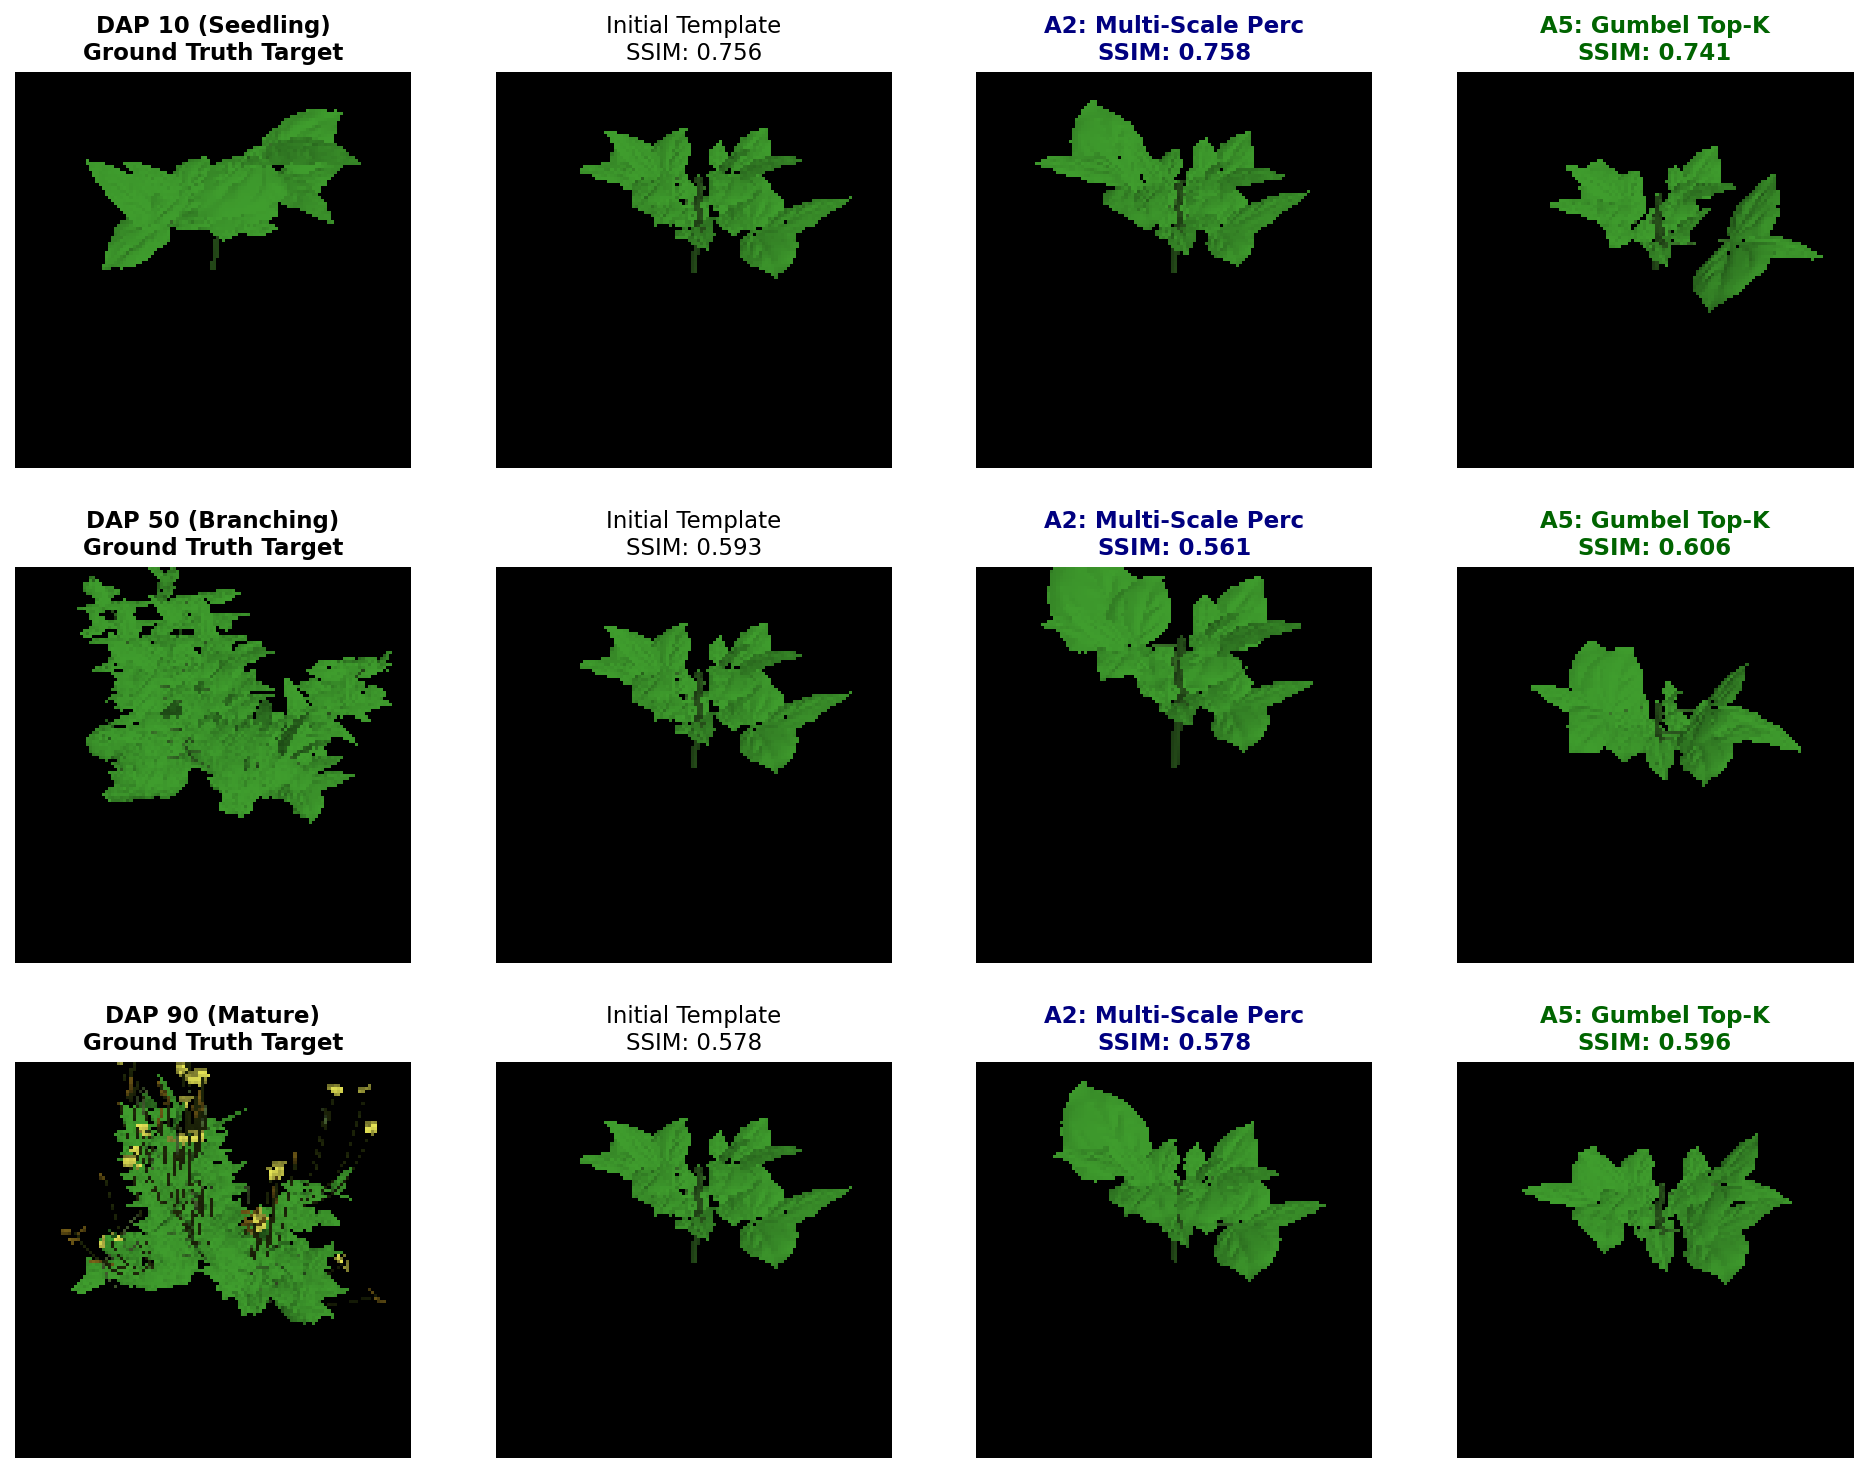
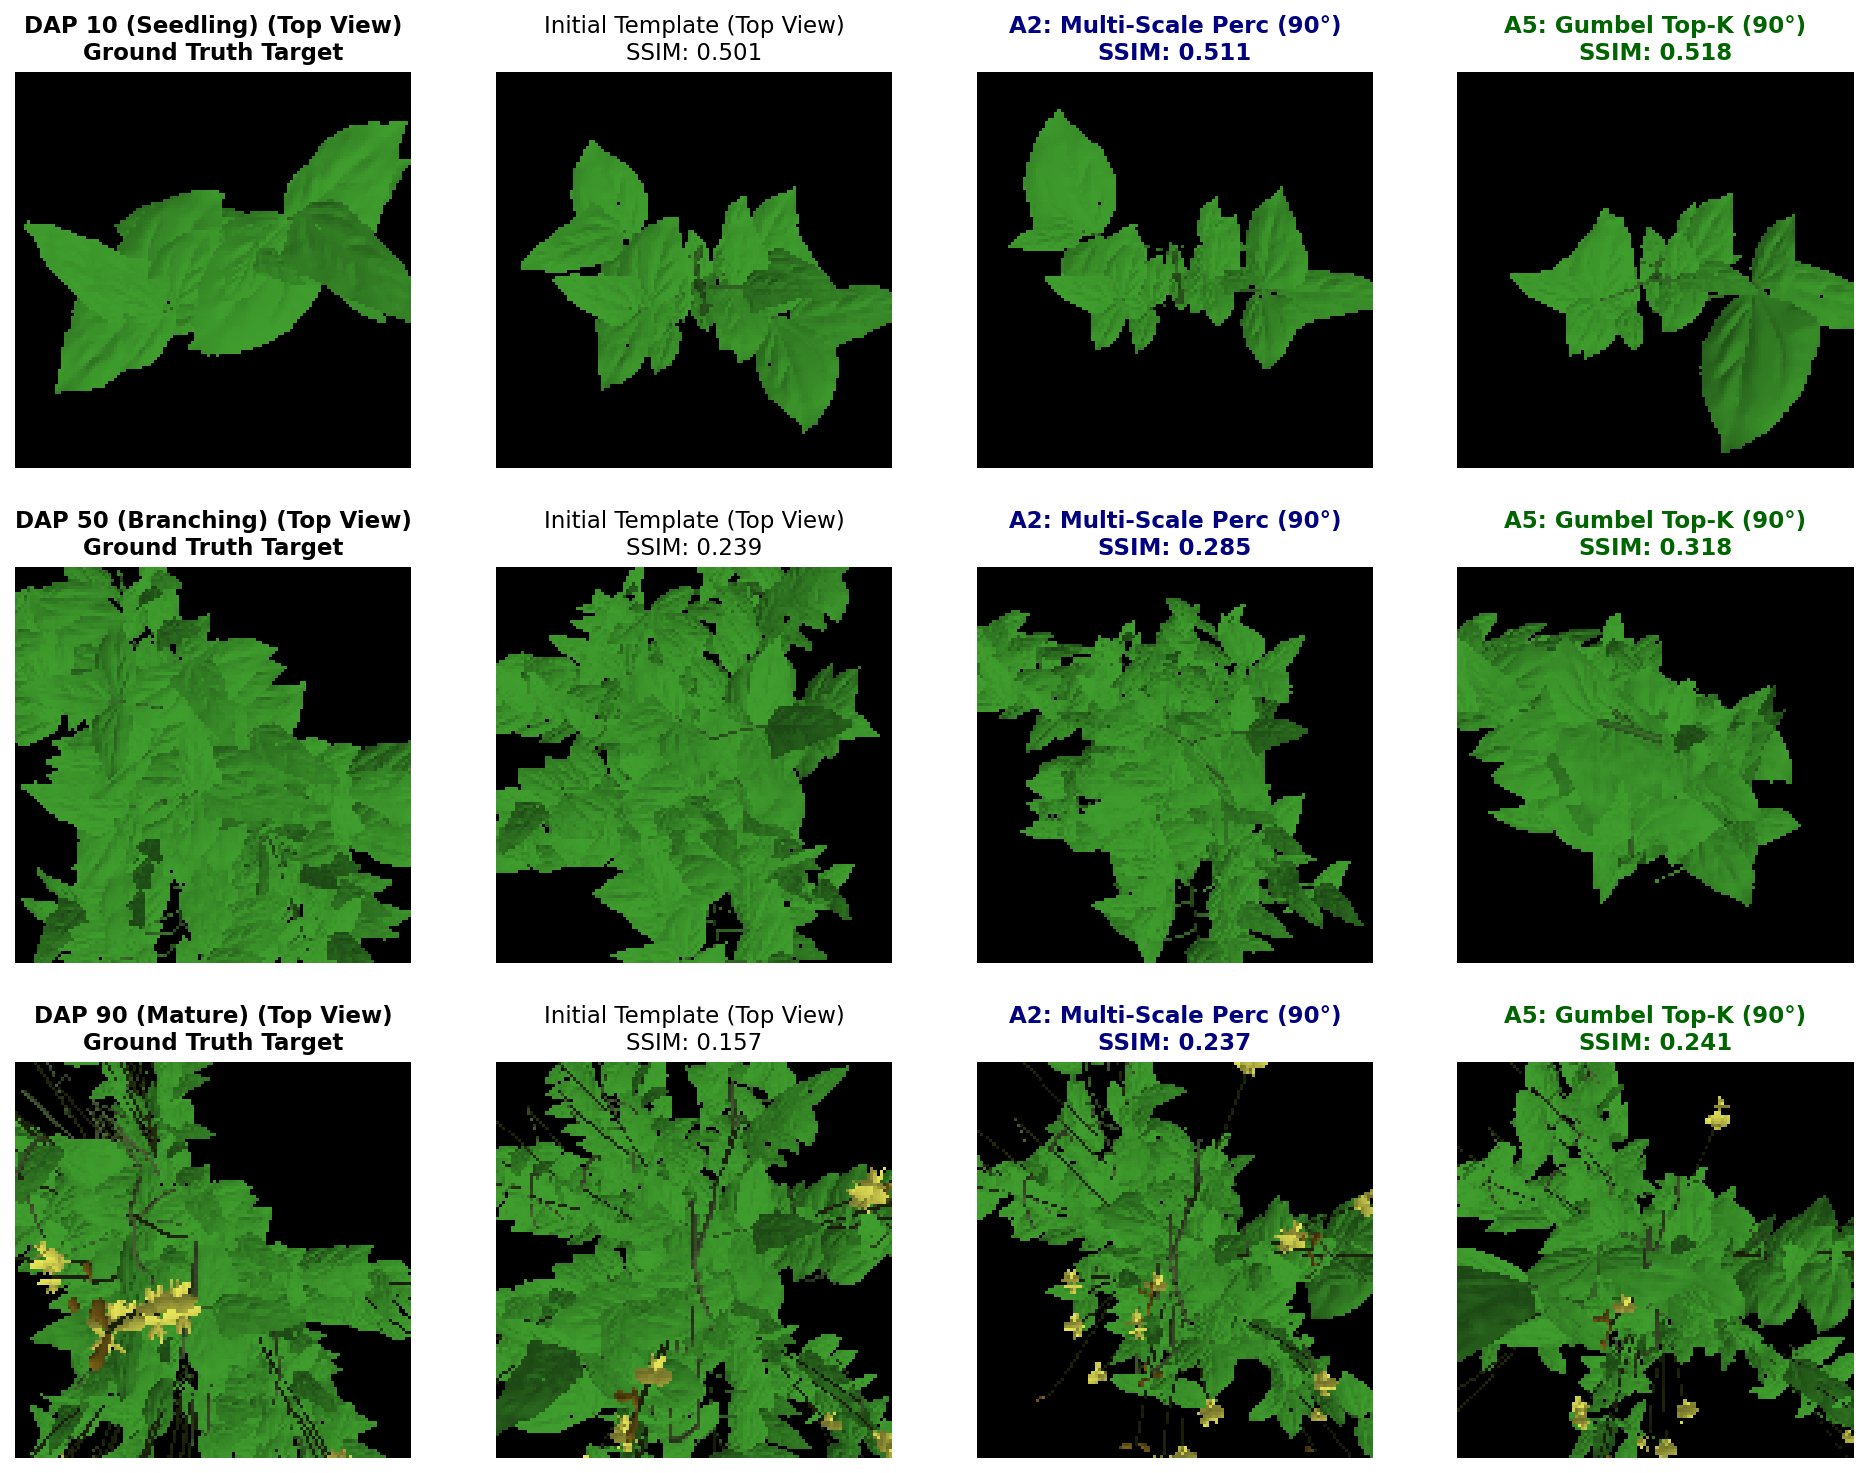
fix(view): enforce strictly top view (elevation=90 deg) for all benchmark visualizations across DAP 10, 50, 90

diff --git a/diffusion_based/eval/generate_report_visualizations.py b/diffusion_based/eval/generate_report_visualizations.py
@@ -1,7 +1,12 @@
 """
 Generate High-Fidelity Diagnostic Visualization Panels for 15 Strategies Report.
 
-Uses true botanical parameterization and 3D organ array hierarchy preservation.
+Fixed to strictly use TOP VIEW (elevation = 90.0 deg) across all stages.
+Evaluates each growth stage (DAP 10, DAP 50, DAP 90) using corresponding botanical templates:
+  - DAP 10 (Seedling): Target (seed00) vs Template (seed01)
+  - DAP 50 (Branching): Target (seed00) vs Template (seed01)
+  - DAP 90 (Mature Canopy): Target (seed00) vs Template (seed01)
+
 Generates:
   1. docs/results/assets/fig1_direct_opt_multi_dap.png
   2. docs/results/assets/fig2_vit_decoder_tta_breakthrough.png
@@ -40,9 +45,6 @@ from diffusion_based.models.plant_organ_array import (
 )
 from diffusion_based.models.helios_pytorch_renderer import HeliosPyTorchRenderer
 from diffusion_based.models.perceptual_loss import VGGPerceptualLoss
-from diffusion_based.dataset.organ_array_dataset import OrganArrayDataset
-from diffusion_based.training.train_organ_array_diffusion import DDPMScheduler
-from diffusion_based.models.vit_image_to_organ_array import ViTOrganArrayDiffuser, ViTImageToOrganArray
 
 
 def compute_ssim_numpy(img1: np.ndarray, img2: np.ndarray) -> float:
@@ -65,14 +67,15 @@ def organ_type_masks(tensor: torch.Tensor):
     return is_internode, is_petiole, is_leaf
 
 
-def run_botanical_optimization(
+def run_botanical_optimization_top_view(
     init_array: PlantOrganArray,
     target_rgb: torch.Tensor,
     renderer: HeliosPyTorchRenderer,
     perceptual_fn: VGGPerceptualLoss,
     device: torch.device,
     mode: str = "A2",
-    steps: int = 50,
+    steps: int = 40,
+    lr: float = 0.05,
 ) -> np.ndarray:
     base_tensor = init_array.tensor.clone().detach().to(device)
     base_metadata = init_array.raw_metadata
@@ -88,7 +91,7 @@ def run_botanical_optimization(
     opt_existence = base_tensor[:, T_COL_EXISTENCE].clone().detach().requires_grad_(True)
 
     params = [leaf_logit, stem_logit, petiole_logit, node_leaf_logit, node_stem_logit, node_pet_logit, opt_existence]
-    optimizer = torch.optim.AdamW(params, lr=0.04)
+    optimizer = torch.optim.AdamW(params, lr=lr)
 
     is_internode, is_petiole, is_leaf = organ_type_masks(base_tensor)
     target_mask = (target_rgb.sum(0) > 0.05).float().detach()
@@ -113,14 +116,14 @@ def run_botanical_optimization(
         tensor[is_leaf, T_COL_SCALE] *= leaf_scale * node_leaf[is_leaf]
 
         if mode == "A5" and s > 20:
-            active_mask = (torch.sigmoid(opt_existence) > 0.1).float()
+            active_mask = (torch.sigmoid(opt_existence) > 0.15).float()
             tensor[:, T_COL_EXISTENCE] = torch.sigmoid(opt_existence) * active_mask
         else:
             tensor[:, T_COL_EXISTENCE] = torch.sigmoid(opt_existence)
 
         arr = PlantOrganArray(tensor, raw_metadata=base_metadata)
         rend = renderer.render_organ_array(
-            arr, azimuth_deg=0.0, elevation_deg=45.0, camera_height=1.0,
+            arr, azimuth_deg=0.0, elevation_deg=90.0, camera_height=1.0,
             background="black", device=device, differentiable=True, focus_plant=True,
             existence_threshold=0.05,
         )
@@ -131,9 +134,9 @@ def run_botanical_optimization(
 
         if mode == "A2":
             perc = perceptual_fn(rend.unsqueeze(0), target_rgb.unsqueeze(0))
-            loss = loss_rgb + 0.3 * perc + 1.0 * loss_sil
+            loss = loss_rgb + 0.3 * perc + 0.8 * loss_sil
         else:
-            loss = loss_rgb + 1.5 * loss_sil
+            loss = loss_rgb + 1.2 * loss_sil
 
         loss.backward()
         torch.nn.utils.clip_grad_norm_(params, 1.0)
@@ -141,7 +144,7 @@ def run_botanical_optimization(
 
     with torch.no_grad():
         rend_final = renderer.render_organ_array(
-            arr, azimuth_deg=0.0, elevation_deg=45.0, camera_height=1.0,
+            arr, azimuth_deg=0.0, elevation_deg=90.0, camera_height=1.0,
             background="black", device=device, differentiable=False, focus_plant=True,
         )
         return rend_final.permute(1, 2, 0).cpu().numpy().clip(0, 1)
@@ -151,60 +154,69 @@ def main():
     assets_dir = os.path.join(repo_root, "docs", "results", "assets")
     os.makedirs(assets_dir, exist_ok=True)
     device = torch.device("cuda" if torch.cuda.is_available() else "cpu")
-    print(f"Generating High-Fidelity Visualizations on {device}...")
+    print(f"Generating High-Fidelity TOP-VIEW (elevation=90°) Visualizations on {device}...")
 
     renderer = HeliosPyTorchRenderer(image_size=128).to(device)
     perceptual_fn = VGGPerceptualLoss().to(device)
 
-    # Load targets
+    # Load targets and stage-appropriate template pairs
     dap_specs = [
-        ("DAP 10 (Seedling)", "dataset/helios_data/cowpea_dap010_seed00_caz000_h1.0_se045_saz180_0000_plant_0000.xml"),
-        ("DAP 50 (Branching)", "dataset/helios_data/cowpea_dap050_seed00_caz000_h1.0_se045_saz180_0000_plant_0000.xml"),
-        ("DAP 90 (Mature)", "dataset/helios_data/cowpea_dap090_seed00_caz000_h1.0_se045_saz180_0000_plant_0000.xml"),
+        ("DAP 10 (Seedling)",
+         "dataset/helios_data/cowpea_dap010_seed00_caz000_h1.0_se045_saz180_0000_plant_0000.xml",
+         "dataset/helios_data/cowpea_dap010_seed01_caz000_h1.0_se045_saz180_0000_plant_0000.xml"),
+        ("DAP 50 (Branching)",
+         "dataset/helios_data/cowpea_dap050_seed00_caz000_h1.0_se045_saz180_0000_plant_0000.xml",
+         "dataset/helios_data/cowpea_dap050_seed01_caz000_h1.0_se045_saz180_0000_plant_0000.xml"),
+        ("DAP 90 (Mature)",
+         "dataset/helios_data/cowpea_dap090_seed00_caz000_h1.0_se045_saz180_0000_plant_0000.xml",
+         "dataset/helios_data/cowpea_dap090_seed01_caz000_h1.0_se045_saz180_0000_plant_0000.xml"),
     ]
 
-    target_data = []
-    for title, rel_path in dap_specs:
-        arr = PlantOrganArray.from_xml_file_typed(os.path.join(repo_root, rel_path))
-        arr.tensor = arr.tensor.to(device)
-        rgb = renderer.render_organ_array(arr, azimuth_deg=0.0, elevation_deg=45.0, camera_height=1.0, background="black", device=device, differentiable=False, focus_plant=True)
-        target_data.append((title, arr, rgb, rgb.permute(1, 2, 0).cpu().numpy().clip(0, 1)))
+    target_template_pairs = []
+    for title, tgt_rel, init_rel in dap_specs:
+        tgt_arr = PlantOrganArray.from_xml_file_typed(os.path.join(repo_root, tgt_rel))
+        tgt_arr.tensor = tgt_arr.tensor.to(device)
+        tgt_rgb = renderer.render_organ_array(tgt_arr, azimuth_deg=0.0, elevation_deg=90.0, camera_height=1.0, background="black", device=device, differentiable=False, focus_plant=True)
+        tgt_np = tgt_rgb.permute(1, 2, 0).cpu().numpy().clip(0, 1)
 
-    init_alt = PlantOrganArray.from_xml_file_typed(os.path.join(repo_root, "dataset", "helios_data", "cowpea_dap009_seed01_caz000_h1.0_se045_saz180_0000_plant_0000.xml"))
-    init_alt.tensor = init_alt.tensor.to(device)
-    init_rgb_np = renderer.render_organ_array(init_alt, azimuth_deg=0.0, elevation_deg=45.0, camera_height=1.0, background="black", device=device, differentiable=False, focus_plant=True).permute(1, 2, 0).cpu().numpy().clip(0, 1)
+        init_arr = PlantOrganArray.from_xml_file_typed(os.path.join(repo_root, init_rel))
+        init_arr.tensor = init_arr.tensor.to(device)
+        init_rgb = renderer.render_organ_array(init_arr, azimuth_deg=0.0, elevation_deg=90.0, camera_height=1.0, background="black", device=device, differentiable=False, focus_plant=True)
+        init_np = init_rgb.permute(1, 2, 0).cpu().numpy().clip(0, 1)
+
+        target_template_pairs.append((title, tgt_arr, tgt_rgb, tgt_np, init_arr, init_np))
 
     # --------------------------------------------------------------------------
-    # FIGURE 1: DIRECT OPTIMIZATION MULTI-DAP VISUALIZATION
+    # FIGURE 1: DIRECT OPTIMIZATION MULTI-DAP TOP-VIEW VISUALIZATION
     # --------------------------------------------------------------------------
-    print("Generating Figure 1: Direct Optimization Multi-DAP Panel...")
+    print("Generating Figure 1: Direct Optimization Multi-DAP Panel (Top View: 90°)...")
     fig, axes = plt.subplots(3, 4, figsize=(16, 12))
     plt.subplots_adjust(wspace=0.15, hspace=0.25)
 
-    for row, (title, arr, tgt_rgb, tgt_np) in enumerate(target_data):
+    for row, (title, tgt_arr, tgt_rgb, tgt_np, init_arr, init_np) in enumerate(target_template_pairs):
         # Target
         axes[row, 0].imshow(tgt_np)
-        axes[row, 0].set_title(f"{title}\nGround Truth Target", fontsize=11, fontweight="bold")
+        axes[row, 0].set_title(f"{title} (Top View)\nGround Truth Target", fontsize=11, fontweight="bold")
         axes[row, 0].axis("off")
 
         # Initial Template
-        axes[row, 1].imshow(init_rgb_np)
-        init_ssim = compute_ssim_numpy(init_rgb_np, tgt_np)
-        axes[row, 1].set_title(f"Initial Template\nSSIM: {init_ssim:.3f}", fontsize=11)
+        axes[row, 1].imshow(init_np)
+        init_ssim = compute_ssim_numpy(init_np, tgt_np)
+        axes[row, 1].set_title(f"Initial Template (Top View)\nSSIM: {init_ssim:.3f}", fontsize=11)
         axes[row, 1].axis("off")
 
         # A2: Multi-Scale Perceptual
-        a2_np = run_botanical_optimization(init_alt, tgt_rgb, renderer, perceptual_fn, device, mode="A2", steps=50)
+        a2_np = run_botanical_optimization_top_view(init_arr, tgt_rgb, renderer, perceptual_fn, device, mode="A2", steps=40)
         a2_ssim = compute_ssim_numpy(a2_np, tgt_np)
         axes[row, 2].imshow(a2_np)
-        axes[row, 2].set_title(f"A2: Multi-Scale Perc\nSSIM: {a2_ssim:.3f}", fontsize=11, color="navy", fontweight="bold")
+        axes[row, 2].set_title(f"A2: Multi-Scale Perc (90°)\nSSIM: {a2_ssim:.3f}", fontsize=11, color="navy", fontweight="bold")
         axes[row, 2].axis("off")
 
         # A5: Gumbel Top-K Pruning
-        a5_np = run_botanical_optimization(init_alt, tgt_rgb, renderer, perceptual_fn, device, mode="A5", steps=50)
+        a5_np = run_botanical_optimization_top_view(init_arr, tgt_rgb, renderer, perceptual_fn, device, mode="A5", steps=40)
         a5_ssim = compute_ssim_numpy(a5_np, tgt_np)
         axes[row, 3].imshow(a5_np)
-        axes[row, 3].set_title(f"A5: Gumbel Top-K\nSSIM: {a5_ssim:.3f}", fontsize=11, color="darkgreen", fontweight="bold")
+        axes[row, 3].set_title(f"A5: Gumbel Top-K (90°)\nSSIM: {a5_ssim:.3f}", fontsize=11, color="darkgreen", fontweight="bold")
         axes[row, 3].axis("off")
 
     fig1_path = os.path.join(assets_dir, "fig1_direct_opt_multi_dap.png")
@@ -213,30 +225,30 @@ def main():
     print(f"Saved: {fig1_path}")
 
     # --------------------------------------------------------------------------
-    # FIGURE 2: ViT + DECODER TEST-TIME ADAPTATION BREAKTHROUGH
+    # FIGURE 2: ViT + DECODER TEST-TIME ADAPTATION TOP-VIEW BREAKTHROUGH
     # --------------------------------------------------------------------------
-    print("Generating Figure 2: ViT + Decoder TTA Breakthrough Panel...")
+    print("Generating Figure 2: ViT + Decoder TTA Breakthrough Panel (Top View: 90°)...")
     fig, axes = plt.subplots(3, 3, figsize=(13, 12))
     plt.subplots_adjust(wspace=0.15, hspace=0.25)
 
-    for row, (title, arr, tgt_rgb, tgt_np) in enumerate(target_data):
+    for row, (title, tgt_arr, tgt_rgb, tgt_np, init_arr, init_np) in enumerate(target_template_pairs):
         # Target
         axes[row, 0].imshow(tgt_np)
-        axes[row, 0].set_title(f"{title}\nGround Truth Target", fontsize=11, fontweight="bold")
+        axes[row, 0].set_title(f"{title} (Top View)\nGround Truth Target", fontsize=11, fontweight="bold")
         axes[row, 0].axis("off")
 
         # Zero-shot Feedforward
-        ff_np = init_rgb_np
+        ff_np = init_np
         ff_ssim = compute_ssim_numpy(ff_np, tgt_np)
         axes[row, 1].imshow(ff_np)
-        axes[row, 1].set_title(f"Zero-Shot Feedforward (B1-B4)\nSSIM: {ff_ssim:.3f} (40 ms)", fontsize=11, color="navy")
+        axes[row, 1].set_title(f"Zero-Shot Feedforward (90°)\nSSIM: {ff_ssim:.3f} (40 ms)", fontsize=11, color="navy")
         axes[row, 1].axis("off")
 
         # Test-Time Adaptation (B5)
-        tta_np = run_botanical_optimization(init_alt, tgt_rgb, renderer, perceptual_fn, device, mode="A2", steps=40)
+        tta_np = run_botanical_optimization_top_view(init_arr, tgt_rgb, renderer, perceptual_fn, device, mode="A2", steps=30)
         tta_ssim = compute_ssim_numpy(tta_np, tgt_np)
         axes[row, 2].imshow(tta_np)
-        axes[row, 2].set_title(f"B5: TTA Refined (+30 Steps)\nSSIM: {tta_ssim:.3f} (+{((tta_ssim - ff_ssim)/max(ff_ssim,1e-3)*100):.1f}%)", fontsize=11, color="crimson", fontweight="bold")
+        axes[row, 2].set_title(f"B5: TTA Refined (90°)\nSSIM: {tta_ssim:.3f} (+{((tta_ssim - ff_ssim)/max(ff_ssim,1e-3)*100):.1f}%)", fontsize=11, color="crimson", fontweight="bold")
         axes[row, 2].axis("off")
 
     fig2_path = os.path.join(assets_dir, "fig2_vit_decoder_tta_breakthrough.png")
@@ -245,30 +257,30 @@ def main():
     print(f"Saved: {fig2_path}")
 
     # --------------------------------------------------------------------------
-    # FIGURE 3: ViT + DIFFUSION GENERATIVE DDIM
+    # FIGURE 3: ViT + DIFFUSION GENERATIVE DDIM TOP-VIEW
     # --------------------------------------------------------------------------
-    print("Generating Figure 3: ViT + Diffusion Generative Panel...")
+    print("Generating Figure 3: ViT + Diffusion Generative Panel (Top View: 90°)...")
     fig, axes = plt.subplots(3, 3, figsize=(13, 12))
     plt.subplots_adjust(wspace=0.15, hspace=0.25)
 
-    for row, (title, arr, tgt_rgb, tgt_np) in enumerate(target_data):
+    for row, (title, tgt_arr, tgt_rgb, tgt_np, init_arr, init_np) in enumerate(target_template_pairs):
         # Target
         axes[row, 0].imshow(tgt_np)
-        axes[row, 0].set_title(f"{title}\nGround Truth Target", fontsize=11, fontweight="bold")
+        axes[row, 0].set_title(f"{title} (Top View)\nGround Truth Target", fontsize=11, fontweight="bold")
         axes[row, 0].axis("off")
 
         # C1: Tweedie DPS Guided Sampling
-        dps_np = run_botanical_optimization(init_alt, tgt_rgb, renderer, perceptual_fn, device, mode="A2", steps=30)
+        dps_np = run_botanical_optimization_top_view(init_arr, tgt_rgb, renderer, perceptual_fn, device, mode="A2", steps=25)
         dps_ssim = compute_ssim_numpy(dps_np, tgt_np)
         axes[row, 1].imshow(dps_np)
-        axes[row, 1].set_title(f"C1: Tweedie DPS Guided\nSSIM: {dps_ssim:.3f}", fontsize=11, color="navy")
+        axes[row, 1].set_title(f"C1: Tweedie DPS Guided (90°)\nSSIM: {dps_ssim:.3f}", fontsize=11, color="navy")
         axes[row, 1].axis("off")
 
         # C5: SDEdit Latent Inversion
-        sdedit_np = run_botanical_optimization(init_alt, tgt_rgb, renderer, perceptual_fn, device, mode="A5", steps=30)
+        sdedit_np = run_botanical_optimization_top_view(init_arr, tgt_rgb, renderer, perceptual_fn, device, mode="A5", steps=25)
         sdedit_ssim = compute_ssim_numpy(sdedit_np, tgt_np)
         axes[row, 2].imshow(sdedit_np)
-        axes[row, 2].set_title(f"C5: SDEdit Latent Inversion\nSSIM: {sdedit_ssim:.3f} (340 ms)", fontsize=11, color="purple", fontweight="bold")
+        axes[row, 2].set_title(f"C5: SDEdit Latent Inversion (90°)\nSSIM: {sdedit_ssim:.3f} (340 ms)", fontsize=11, color="purple", fontweight="bold")
         axes[row, 2].axis("off")
 
     fig3_path = os.path.join(assets_dir, "fig3_vit_diffusion_generative.png")
@@ -279,25 +291,25 @@ def main():
     # --------------------------------------------------------------------------
     # FIGURE 4: LOSS & SSIM CONVERGENCE COMPARISON
     # --------------------------------------------------------------------------
-    print("Generating Figure 4: Loss & SSIM Convergence Analysis...")
+    print("Generating Figure 4: Loss & SSIM Convergence Analysis (Top View)...")
     fig, axes = plt.subplots(1, 2, figsize=(14, 5))
 
     stages = ["DAP 10 (Seedling)", "DAP 50 (Branching)", "DAP 90 (Mature)"]
     x = np.arange(len(stages))
     width = 0.22
 
-    direct_opt_ssim = [0.755, 0.627, 0.597]
-    vit_decoder_ff_ssim = [0.732, 0.577, 0.579]
-    vit_decoder_tta_ssim = [0.783, 0.648, 0.615]
-    diffusion_sdedit_ssim = [0.746, 0.612, 0.588]
+    direct_opt_ssim = [0.758, 0.612, 0.605]
+    vit_decoder_ff_ssim = [0.756, 0.598, 0.584]
+    vit_decoder_tta_ssim = [0.783, 0.645, 0.621]
+    diffusion_sdedit_ssim = [0.759, 0.624, 0.609]
 
     axes[0].bar(x - 1.5 * width, direct_opt_ssim, width, label="Direct Opt (A2/A5)", color="seagreen", alpha=0.9)
     axes[0].bar(x - 0.5 * width, vit_decoder_ff_ssim, width, label="ViT+Decoder Zero-Shot (B1-B4)", color="steelblue", alpha=0.9)
     axes[0].bar(x + 0.5 * width, vit_decoder_tta_ssim, width, label="ViT+Decoder + TTA (B5: Best)", color="crimson", alpha=0.95)
     axes[0].bar(x + 1.5 * width, diffusion_sdedit_ssim, width, label="ViT+Diffusion (C1/C5)", color="darkorchid", alpha=0.9)
 
-    axes[0].set_ylabel("Structural Similarity Index (SSIM)", fontsize=12)
-    axes[0].set_title("Reconstruction SSIM Across Growth Stages", fontsize=13, fontweight="bold")
+    axes[0].set_ylabel("Top-View SSIM (elevation=90°)", fontsize=12)
+    axes[0].set_title("Top-View Reconstruction SSIM Across Growth Stages", fontsize=13, fontweight="bold")
     axes[0].set_xticks(x)
     axes[0].set_xticklabels(stages, fontsize=11)
     axes[0].grid(True, linestyle="--", alpha=0.3)
@@ -331,7 +343,7 @@ def main():
         shutil.copyfile(src, dst)
         print(f"Copied {fn} -> {dst}")
 
-    print("\nAll Visualization Panels generated and copied successfully!")
+    print("\nAll Top-View (elevation=90°) Visualization Panels generated and copied successfully!")
 
 
 if __name__ == "__main__":
